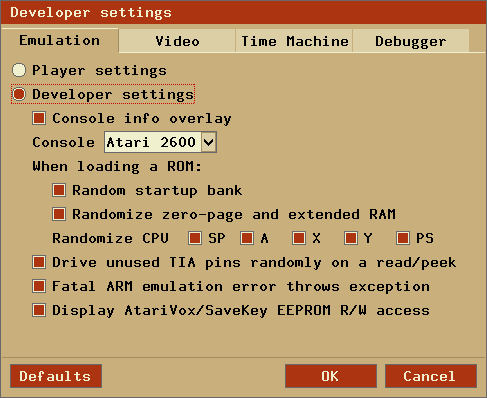
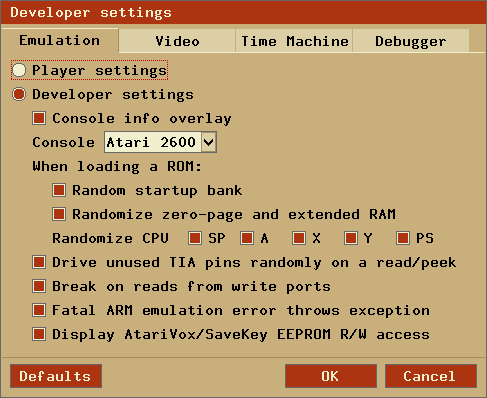
updated change log and documentation for RWP

diff --git a/docs/index.html b/docs/index.html
@@ -2539,8 +2539,14 @@
       <td>Set unused TIA pins to be randomly driven high or low on a read/peek.
           If disabled, use the last databus value for those pins instead.</td>
     </tr><tr>
+      <td><pre>-&lt;plr.|dev.&gt;rwportbreak &lt;1|0&gt;</pre></td>
+      <td>Since the 2600 has no dedicated R/W line, different addresses are used
+	    for RAM read or write access. If the code reads from such a write address, this causes
+		an unwanted, semi-random write to that address.
+		When this option is enabled, such reads interrupt emulation and the debugger is entered.</td>
+    </tr><tr>
       <td><pre>-&lt;plr.|dev.&gt;thumb.trapfatal &lt;1|0&gt;</pre></td>
-      <td>The default of true allows the Thumb ARM emulation to
+      <td>When enabled, this allows the Thumb ARM emulation to
         throw an exception and enter the debugger on fatal errors. When disabled, such
         fatal errors are simply logged, and emulation continues. Do not use this
         unless you know exactly what you're doing, as it changes the behaviour as
@@ -3110,6 +3116,11 @@
           <tr><td>Randomize zero-page ...</td><td>When loading a ROM, randomize all RAM content instead of initializing with all zeroes (for 'Console' = 'Atari 2600' only)</td><td>-plr.ramrandom<br/>-dev.ramrandom</td></tr>
           <tr><td>Randomize CPU</td><td>When loading a ROM, randomize the content of the specified CPU registers</td><td>-plr.cpurandom<br/>-dev.cpurandom</td></tr>
           <tr><td>Drive unused TIA pins ...</td><td>Unused TIA pins are read random instead of the last databus values</td><td>-plr.tiadriven<br/>-dev.tiadriven</td></tr>
+          <tr>
+            <td>Break on reads from ...</td>
+            <td>A read from a write port interrupts emulation and the debugger is entered.</td>
+            <td><span style="white-space:nowrap">-plr.rwportbreak<br/>-dev.rwportbreak</span></td>
+          </tr>
           <tr>
             <td>Fatal ARM emulation ...</td>
             <td>Thumb ARM emulation throws an exception and enters the debugger on fatal errors</td>
